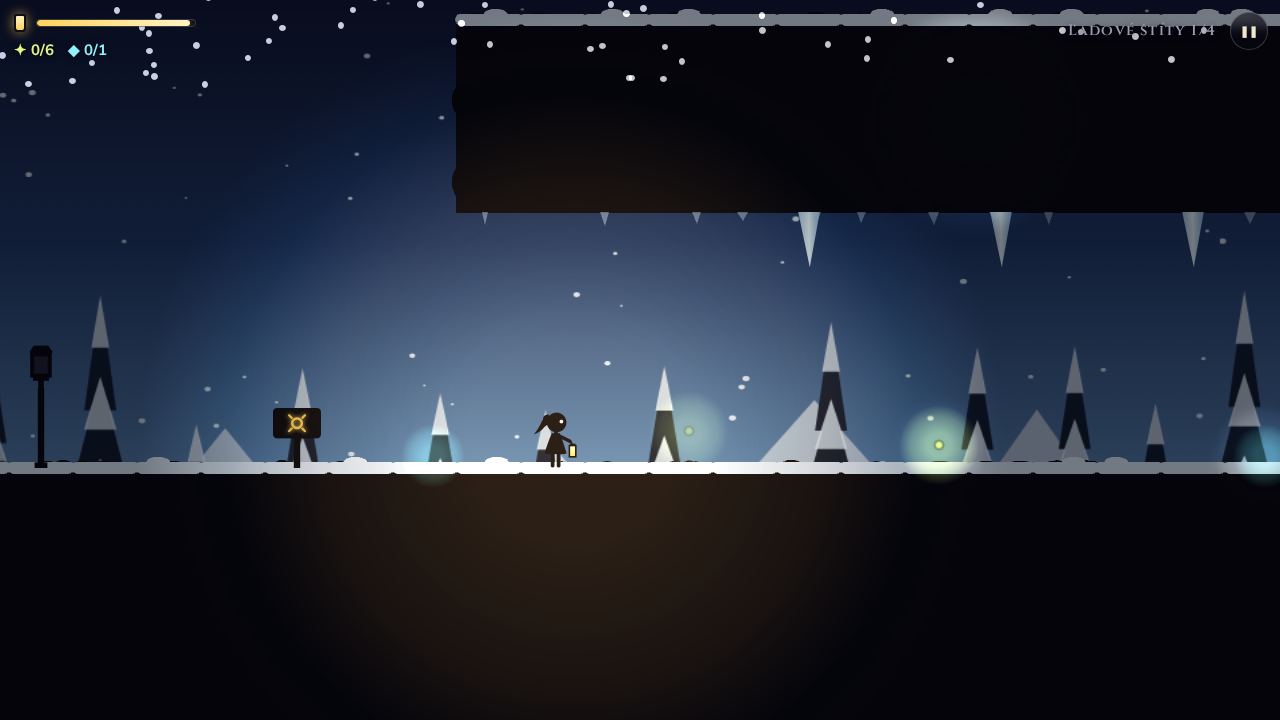
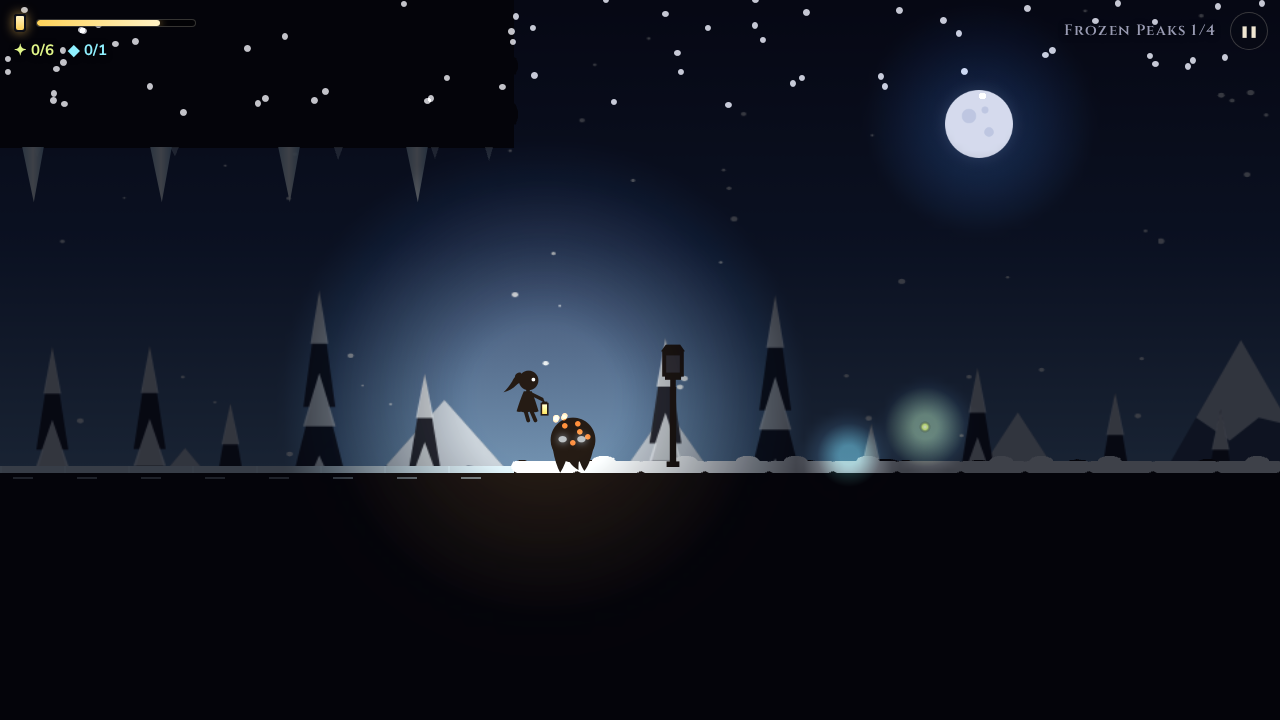
README v angličtine s novými snímkami všetkých siedmich svetov
Claude-Session: https://claude.ai/code/session_01Rh6E1MXbNhhRiwvBzFcm3J

diff --git a/README.md b/README.md
@@ -1,67 +1,82 @@
 # Lumen
 
-Siluetová plošinovka do prehliadača o malej postavičke s lampášom vo svete, ktorý zhasol.
-Svetlo je všetko: ukazuje cestu, odháňa tiene a zhmotňuje svetelné plošiny. Olej v lampáši
-však pomaly dochádza.
+A silhouette platformer for the browser about a little girl with a lantern in a world that has gone dark.
+Light is everything: it shows the way, keeps the shades at bay and makes bridges of light solid.
+But the oil in the lantern is slowly running out.
 
-**▶ Hraj online: https://darangonaut.github.io/lumen/**
+**▶ Play online: https://darangonaut.github.io/lumen/**
 
-![Hmlistý les](docs/screenshots/forest.png)
+![Lumen title screen](docs/screenshots/title.png)
 
-|                                                 |                                                               |
-| ----------------------------------------------- | ------------------------------------------------------------- |
-| ![Zatopené jaskyne](docs/screenshots/caves.png) | ![Močiare](docs/screenshots/swamp.png)                        |
-| ![Ľadové štíty](docs/screenshots/ice.png)       | ![Zabudnutá veža](docs/screenshots/tower.png)                 |
-| ![Srdce tmy](docs/screenshots/abyss.png)        | ![Rozžiarený lampáš spaľuje tieň](docs/screenshots/flare.png) |
-| ![Úvodná obrazovka](docs/screenshots/title.png) | ![Mobil](docs/screenshots/mobile.png)                         |
+## Seven worlds
 
-## Ako sa hrá
+24 levels in six worlds, each with its own mechanic, plus a bonus seventh world unlocked after the finale.
 
-- **Olej** v lampáši sa pomaly míňa. Dopĺňajú ho **svetlušky**. Keď dôjde, tma ťa pohltí.
-- **Svetelné plošiny** existujú len vo svetle. Kam nedosvietiš, tam nestúpiš.
-- **Rozžiarenie** (Shift / X / ✦) zväčší svetlo, ukáže vzdialené plošiny a spáli tiene,
-  ale míňa veľa oleja.
-- **Tiene** krúžia na okraji svetla a čakajú, kým zaváhaš. Ich dotyk ukradne olej.
-  Poraziť ich môžeš **skokom na hlavu**, **iskrou** (stojí trochu oleja) alebo rozžiarením.
-- **Mory** letia za svetlom a pijú olej z lampáša.
+| World                 | What awaits you                                   |
+| --------------------- | ------------------------------------------------- |
+| Misty Forest          | bridges of light, the first shades                |
+| Flooded Caves         | icy water, crumbling stones, moths                |
+| Marshes               | glowing mushrooms that launch you high            |
+| Frozen Peaks          | slippery ice and icicles that break off           |
+| Forgotten Tower       | moving platforms, chained with timed jumps        |
+| Heart of Darkness     | great shades that take three hits, and the finale |
+| Stormy Peak _(bonus)_ | wind gusts, shelter behind rocks, lightning       |
 
-**24 levelov v šiestich svetoch**, každý s vlastnou mechanikou, a po dohraní **bonusový siedmy svet**:
+|     ![Misty Forest](docs/screenshots/forest.png)      |      ![Flooded Caves](docs/screenshots/caves.png)      |
+| :---------------------------------------------------: | :----------------------------------------------------: |
+|         Misty Forest — a lamp is a checkpoint         | Flooded Caves — a shade waits at the edge of the light |
+|        ![Marshes](docs/screenshots/swamp.png)         |       ![Frozen Peaks](docs/screenshots/ice.png)        |
+|   Marshes — reeds, dead trees and will-o'-the-wisps   |     Frozen Peaks — icicles hang over slippery ice      |
+|    ![Forgotten Tower](docs/screenshots/tower.png)     |    ![Heart of Darkness](docs/screenshots/abyss.png)    |
+| Forgotten Tower — arches, chains and moving platforms |     Heart of Darkness — the last and darkest world     |
+|      ![Stormy Peak](docs/screenshots/storm.png)       |   ![Flaring the lantern](docs/screenshots/flare.png)   |
+|        Stormy Peak — rain, gusts and lightning        |       Flaring the lantern burns the shades away        |
 
-| Svet                 | Čo ťa čaká                                      |
-| -------------------- | ----------------------------------------------- |
-| Hmlistý les          | svetelné plošiny, prvé tiene                    |
-| Zatopené jaskyne     | ľadová voda, popraskané kamene, mory            |
-| Močiare              | svietiace huby, ktoré ťa vymrštia do výšky      |
-| Ľadové štíty         | šmykľavý ľad a cencúle, ktoré sa odlomia        |
-| Zabudnutá veža       | pohyblivé plošiny                               |
-| Srdce tmy            | veľké tiene, ktoré vydržia tri zásahy, a finále |
-| Búrlivý vrch (bonus) | vietor v nárazoch, závetrie za skalami, blesky  |
+## How to play
 
-- **Lampy** na stĺpoch sú checkpointy a doplnia olej. Pri nich si v bezpečí.
-- Na konci každého levelu zapáľ **vatru**. Kto hľadá, nájde aj skryté **kryštály**.
+- **Oil** in your lantern slowly burns away. **Fireflies** refill it. When it runs out, the darkness takes you.
+- **Bridges of light** only exist in the light. Where your lantern doesn't reach, you can't step.
+- **Flaring** the lantern makes the light bigger, reveals distant platforms and burns shades — but it uses a lot of oil.
+- **Shades** circle at the edge of the light and wait for you to falter. Their touch steals oil.
+  Defeat them by **jumping on their heads**, throwing a **spark** (costs a little oil) or flaring the lantern.
+- **Moths** chase the light and drink oil from your lantern.
+- **Lamps** on posts are checkpoints and refill your oil. Next to a lit lamp you are safe from shades.
+- Light the **campfire** at the end of every level. Those who look around will find hidden **crystals**.
+- On Stormy Peak the **wind** blows in gusts: it pushes you in mid-air, but it can't move you while you stand still.
+  Wait behind a rock, and jump when the wind dies down.
 
-## Ovládanie
+## Controls
 
-| Akcia                   | Klávesnica        | Dotyk |
-| ----------------------- | ----------------- | ----- |
-| Chôdza                  | ← → / A D         | ◀ ▶   |
-| Skok (podržaním vyššie) | Medzerník / ↑ / W | ⤒     |
-| Zoskočiť z lávky        | ↓ / S             |       |
-| Hodiť iskru             | C / F             | ✸     |
-| Rozžiariť lampáš        | Shift / X         | ✦     |
-| Pauza                   | Esc / P           | ❚❚    |
+| Action                     | Keyboard      | Touch |
+| -------------------------- | ------------- | ----- |
+| Walk                       | ← → / A D     | ◀ ▶   |
+| Jump (hold to jump higher) | Space / ↑ / W | ⤒     |
+| Drop through a ledge       | ↓ / S         |       |
+| Throw a spark              | C / F         | ✸     |
+| Flare the lantern          | Shift / X     | ✦     |
+| Pause                      | Esc / P       | ❚❚    |
 
-## Vývoj
+The game is available in **English**, **Slovak** and **Czech**, and works on phones held sideways.
 
-TypeScript, Vite a PixiJS 8. Grafika je vektorová v siluetovom štýle (`src/render/vector.ts`): čierne popredie, žiariace pozadie, farbu má len svetlo. Všetka grafika aj zvuk sa generujú v kóde (žiadne obrázky ani
-zvukové súbory). Herná logika v `src/game/` je čistý TypeScript bez PixiJS a DOM. Levely sú
-ASCII mapy v `src/game/levels.ts` (2 svety po 4 leveloch: Hmlistý les a Zatopené jaskyne) a testy overujú, že sa dajú prejsť.
+<p align="center"><img src="docs/screenshots/mobile.png" alt="Lumen on a phone with touch controls" width="640"></p>
+
+## Development
+
+Built with TypeScript, Vite and PixiJS 8. All graphics are vector silhouettes drawn in code
+(`src/render/vector.ts`): a black foreground against a glowing sky, where only light has colour.
+Sound is synthesized with the Web Audio API — the game has no image or audio files.
+
+- `src/game/` — pure game logic in TypeScript, with no PixiJS or DOM (enforced by ESLint).
+- `src/game/levels.ts` — levels as ASCII maps; the legend is in `src/game/level.ts`.
+- `src/render/` — rendering: terrain, darkness with light cut-outs, parallax backgrounds, particles.
+- `src/ui/` — title scene and translations (`i18n.ts`).
+- `tests/` — logic tests and a bot that plays every level to prove it can be completed.
 
 ```bash
 npm install
-npm run dev          # vývojový server
-npm test             # testy logiky a prejazdnosti levelov
-npm run deploy:pages # nasadenie na GitHub Pages
+npm run dev          # development server
+npm test             # logic tests and level completion bot
+npm run deploy:pages # deploy to GitHub Pages
 ```
 
-Ladenie: `?debug&level=N` spustí rovno level N.
+Debugging: `?debug&level=N` starts directly at level N (1–28).
